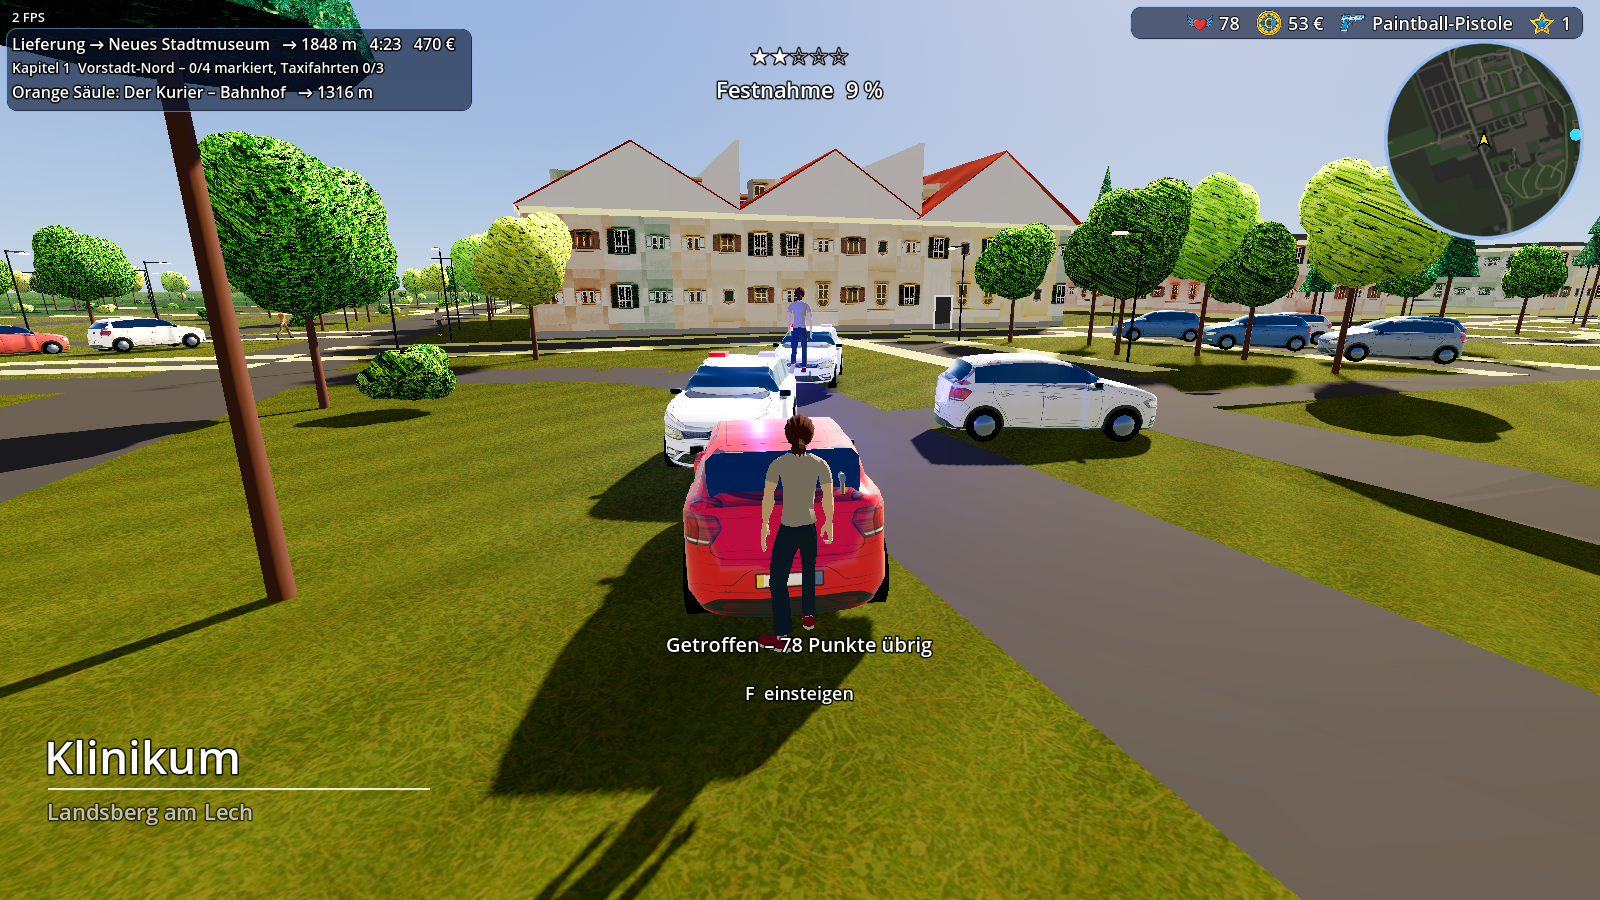
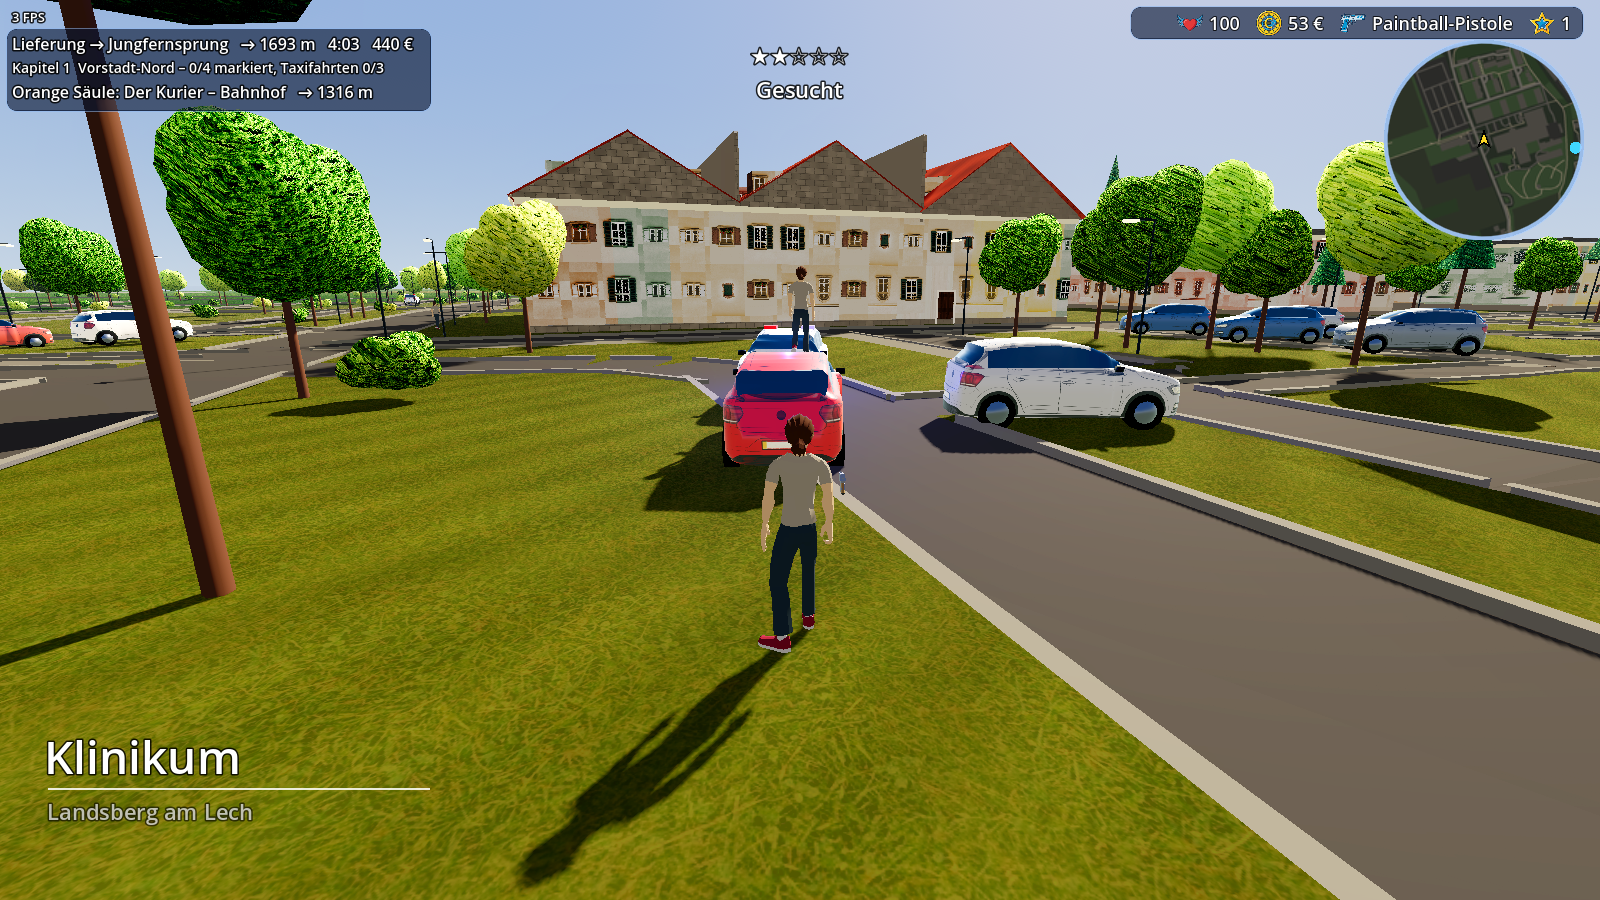
Docs: Stand nach Bordsteinen und Ladenfronten, README (Leistung, Strassenraum)
Claude-Session: https://claude.ai/code/session_01G8trYZWv6f7xcfM8xxU6YN

diff --git a/Godot/README.md b/Godot/README.md
@@ -98,6 +98,15 @@ Stücke mit Lyria (Menü, Fahrt, Hubschrauber, Verfolgung). Das Kino (`kino.gd`)
 `musik.gd` wählt das Stück nach Lage. Die Dateien liegen in `Godot/daten/sprache` und
 `Godot/daten/musik` (nicht im Repo; ohne sie bleibt es stumm).
 
+**Leistung.** Der Bildlauf misst je Screenshot Zeichenaufrufe und Dreiecke (`LALABERG_LAST`).
+Baumkronen haben eine Nah- (bis 140 m, mit Schatten) und eine Fernstufe, geparkte Autos sind
+vereinfacht und bis 380 m sichtbar, Schatten reichen 180 m. Am Bayertor: rund 2 Mio. statt
+12 Mio. Dreiecke, 1000 statt 1800 Aufrufe.
+
+**Straßenraum.** Der Konverter setzt Bordsteine an die Ränder der Fahrbahn (nicht an Nähte
+zwischen Straßenstücken und nicht in der Altstadt) und entfernt Gehwegstreifen, die in den
+Quelldaten über der Fahrbahn liegen. Läden haben Schaufenster, Sockel Naturstein, Türen Holz.
+
 **Altstadt.** Innerhalb des Altstadt-Rechtecks tragen die Wände Fachwerk (vier Module vom
 Bildmodell, kräftige Hausfarben) und die Straßen Kopfsteinpflaster (`flach.gdshader`).
 
@@ -139,7 +148,7 @@ godot --path Godot --headless -- --rauchtest
 Er prüft unter anderem: Boden und Kollision, Konto, Treffer auf Passanten und Autos,
 Krankenhaus, Fahndung bis zur Festnahme, Straßensperre, Ampelplan und Bremsen, Aufträge,
 Laden und Lackiererei, Verfolgung, Reviernahme und die ganze Hauptgeschichte im
-Zeitraffer mit allen drei Enden (knapp 60 Prüfungen, `LALABERG_PRUEFUNG ... ok=`).
+Zeitraffer mit allen drei Enden (über 70 Prüfungen (`welt_rauchtest.gd`), `LALABERG_PRUEFUNG ... ok=`).
 
 Bilder (nicht headless; ohne GPU mit Software-OpenGL unter Xvfb):
 
